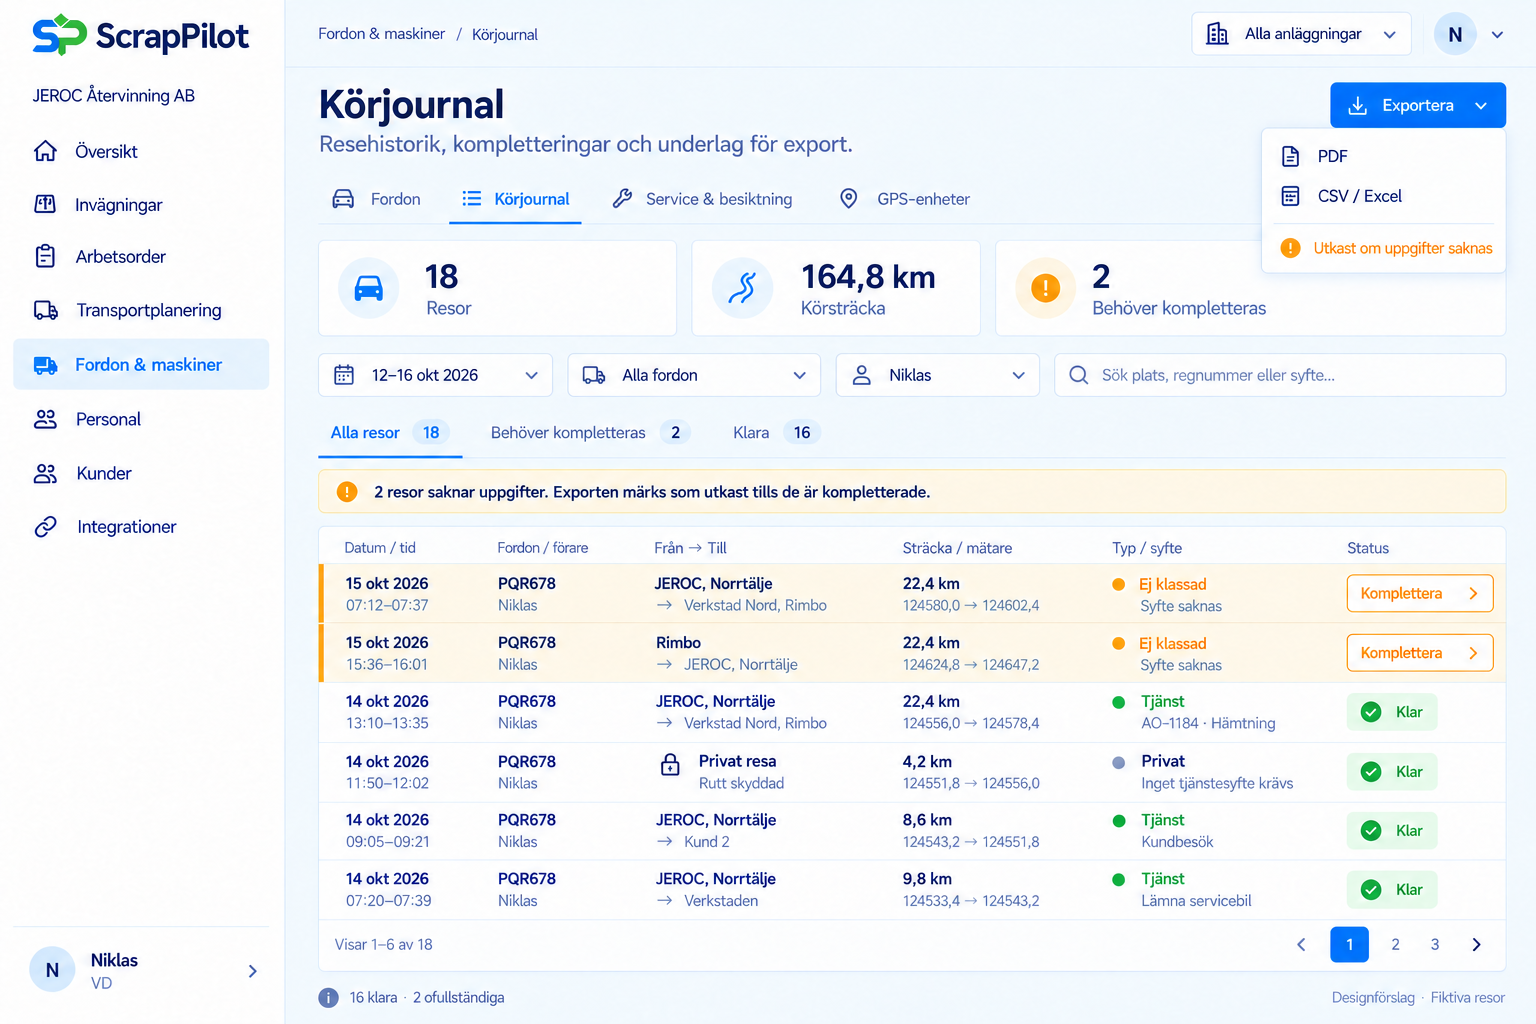
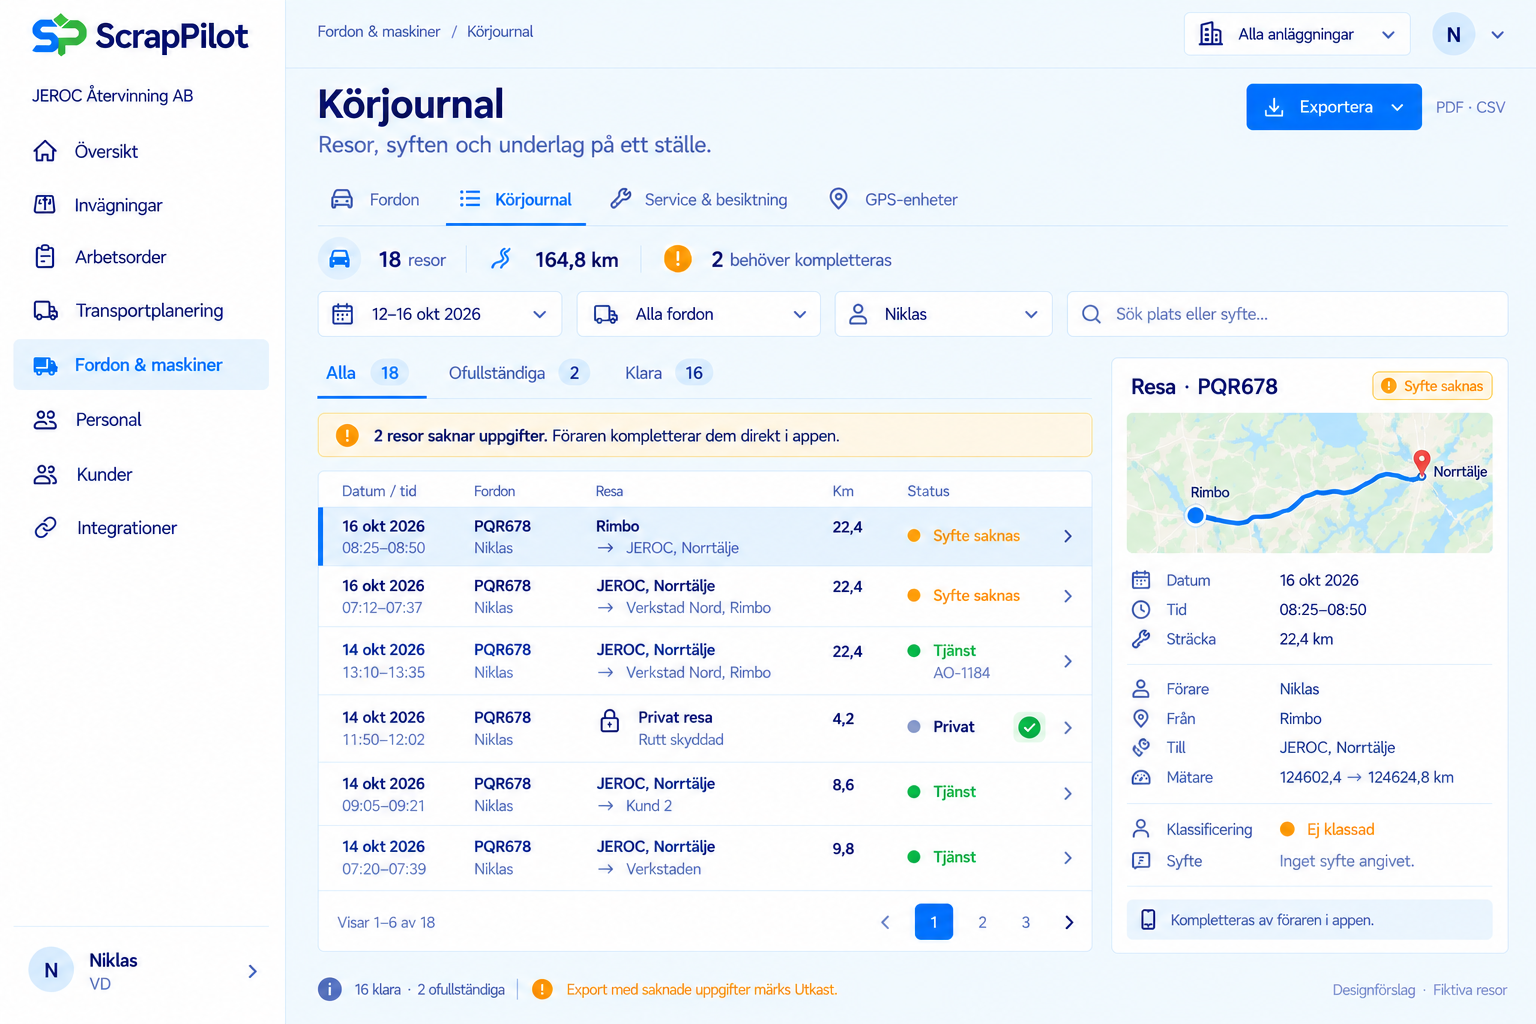
docs: redesign trip completion as an immediate blocking card stack

diff --git a/docs/mockups/korjournal/README.md b/docs/mockups/korjournal/README.md
@@ -2,34 +2,39 @@
 
 Tre statiska bildmockuper framtagna 2026-10-16 med fiktiva personer, resor och fordonsuppgifter. Leveransen innehåller ingen appkod. Beteenden och funktionella garantier nedan är designkrav, inte implementerad funktion.
 
-## 1. Webb: körjournal och export
+## 1. Webb: körjournal med sidopanel
 
-Körjournalen ligger under **Fordon & maskiner**, på fliken **Körjournal**. **GPS-enheter** är en sekundär flik. Vyn visar historik, filter och sammanfattningen **18 resor · 16 klara · 2 ofullständiga**. PDF- och CSV-export med saknade uppgifter ska tydligt märkas **Utkast – ofullständiga uppgifter**. Privata resors rutt är dold.
+Körjournalen ligger under **Fordon & maskiner**, på fliken **Körjournal**. **GPS-enheter** är en sekundär flik. Vyn visar historik, filter och sammanfattningen **18 resor · 16 klara · 2 saknar uppgifter**. Den valda resan visas i en sidopanel till höger för granskning av resans uppgifter och kompletteringsstatus. PDF- och CSV-export med luckor ska tydligt märkas **Utkast – ofullständiga uppgifter**; saknade uppgifter och utkaststatus följer med i exporten. Privata resors rutt är dold.
 
-![Webbkörjournal med historik och export](01_Webb_Korjournal.png)
+![Webbkörjournal med historik, export och vald resa i höger sidopanel](01_Webb_Korjournal.png)
 
-## 2. App: resor att komplettera
+## 2. App: direkt kompletteringslås med kortstapel
 
-Mobilöversikten visar morgonen den **16 oktober 2026**: **Slutför gårdagens körjournal**, **2 resor** och **Komplettera nu**. Vyn har **Att göra / Historik**, medan appens befintliga bottenmeny **Hem / Schema / Tid / Profil** behålls.
+Exemplet visar appen klockan **08:52 den 16 oktober 2026**. Två avslutade resor för **Niklas**, fordon **PQR678**, saknar obligatoriska uppgifter. Den senaste resan visas som ett aktivt, kompakt kort med den äldre resan bakom. **2 kvar** inkluderar både det aktiva kortet och kortet bakom. Det aktiva kortet är ännu oklassat och erbjuder **Privat / Tjänst**.
 
-Samma två avslutade resor utan angivet syfte visas i webb och app, båda för **Niklas**, fordon **PQR678**, den **15 oktober 2026**:
+Samma två resor visas i webb och app, senaste först:
 
+- **08:25–08:50:** Rimbo → JEROC Norrtälje, **22,4 km**. Mätarställning **124 602,4 → 124 624,8 km**.
 - **07:12–07:37:** JEROC Norrtälje → Verkstad Nord, Rimbo, **22,4 km**. Mätarställning **124 580,0 → 124 602,4 km**.
-- **15:36–16:01:** Rimbo → JEROC Norrtälje, **22,4 km**.
 
-![Mobilöversikt med gårdagens två resor att komplettera](02_App_Resor_att_komplettera.png)
+![Appens direkta kompletteringslås med oklassad resa och nästa kort bakom](02_App_Resor_att_komplettera.png)
 
-## 3. App: komplettera en resa
+## 3. App: samma kort med tjänstesyfte
 
-Formuläret visar **Resa 1 av 2**. **Tjänst** är valt genom ett uttryckligt användarval. Användaren kan antingen välja en arbetsorder eller ange ett konkret manuellt tjänstesyfte; exemplet har syftet **Hämta skrot hos Verkstad Nord**. Primär åtgärd är **Spara och nästa**. **Privat** ska rensa arbetsorder och tjänstesyfte och kräver inget sådant syfte.
+Samma aktiva kort visas efter att användaren uttryckligen valt **Tjänst**. Användaren kan antingen välja en arbetsorder eller ange ett konkret manuellt tjänstesyfte; exemplet har syftet **Återresa efter hämtning hos Verkstad Nord**. Primär åtgärd är **Spara och nästa**. **Privat** ska rensa arbetsorder och tjänstesyfte och kräver inget sådant syfte.
 
-![Komplettering av resa med uttryckligt valt tjänstesyfte](03_App_Komplettera_resa.png)
+![Samma resekort med uttryckligt vald tjänst och ifyllt manuellt syfte](03_App_Komplettera_resa.png)
 
 ## Flödeskrav för en framtida implementation
 
-- Förfallna, avslutade resor ska obligatoriskt kompletteras. Vanliga arbetsflöden begränsas tills detta är gjort, på samma sätt som vid saknad tidsregistrering. Det finns ingen **Hoppa över**-åtgärd.
-- Nödvändig åtkomst till stämpelklocka och frånvaro ska finnas kvar. Ingen interaktion ska ske under aktiv körning; komplettering sker när fordonet står stilla.
-- Okänd förare hanteras separat och får inte automatiskt tilldelas den inloggade användaren. Standardförare eller gissad arbetsplats får inte automatiskt göra en resa till tjänsteresa.
-- Export med luckor får aldrig framstå som komplett. Saknade uppgifter och utkaststatus ska följa med i exporten.
+- Kompletteringsläget öppnas direkt när appen öppnas eller åter blir aktiv, eller när en ny avslutad egen resa tas emot medan appen är säker att använda. Alla avslutade egna resor med saknade obligatoriska uppgifter omfattas, oavsett vilket datum de gjordes.
+- Vanliga arbetsflöden är låsta tills kön är klar. Det finns ingen stängknapp, tillbaka till appen, **Senare**, **Hoppa över** eller vanlig appnavigation i kompletteringsläget.
+- Resorna visas senaste först, men det aktiva kortet får inte bytas eller flyttas medan användaren fyller i det.
+- Först efter att servern bekräftat giltig lagring tas kortet bort och nästa visas automatiskt. Låset släpper först när hela kön är klar. En fullständigt sparad resa ska aldrig efterfrågas igen.
+- Vid felsvar behålls både kort och inmatning, med **Försök igen**. Ett misslyckat eller obekräftat sparande får inte minska antalet kvarvarande resor.
+- Ingen interaktion framtvingas under pågående körning. Resor med okänd förare hanteras separat och får inte automatiskt tilldelas den inloggade användaren.
+- Kompletteringen gäller förarens uppgifter, exempelvis klassning och syfte. Tekniska dataluckor som saknad mätarställning får separat granskning; föraren ska inte behöva hitta på sensorvärden för att komma vidare.
+- Tjänst kräver ett uttryckligt arbetsorderval eller ett konkret manuellt syfte. Standardförare, arbetsplats eller andra gissningar får inte automatiskt ange tjänst eller fylla i syftet. Privat kräver inget tjänstesyfte och rensar eventuell arbetsorder och tjänsteuppgifter.
+- Snabbval som Återresa, Hämtning och Leverans är skrivhjälp för ett utkast. De sparar inte resan eller låser upp appen på egen hand; föraren bekräftar det konkreta syftet innan kortet lämnar stapeln.
 
 Se även [tidigare fordonsmockuper](../fordonsadministration/README.md), [mockuper för GPS-enheter](../telematikenheter/README.md) och [telematikens integrationsdokumentation](../../integrationer/telematik/README.md).
